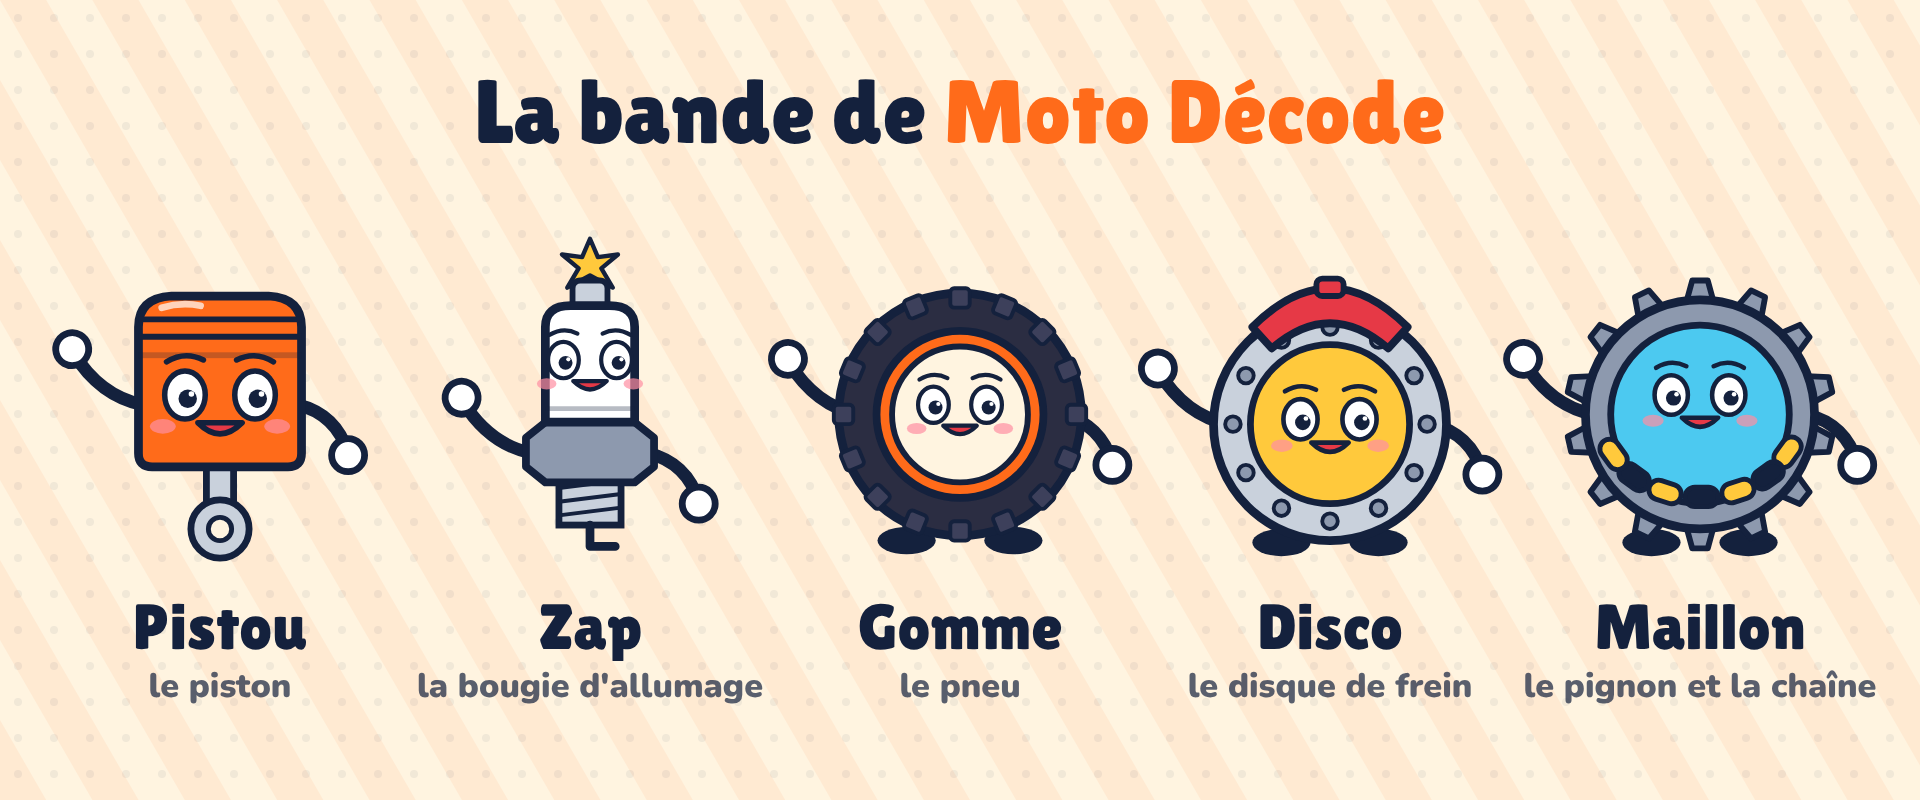
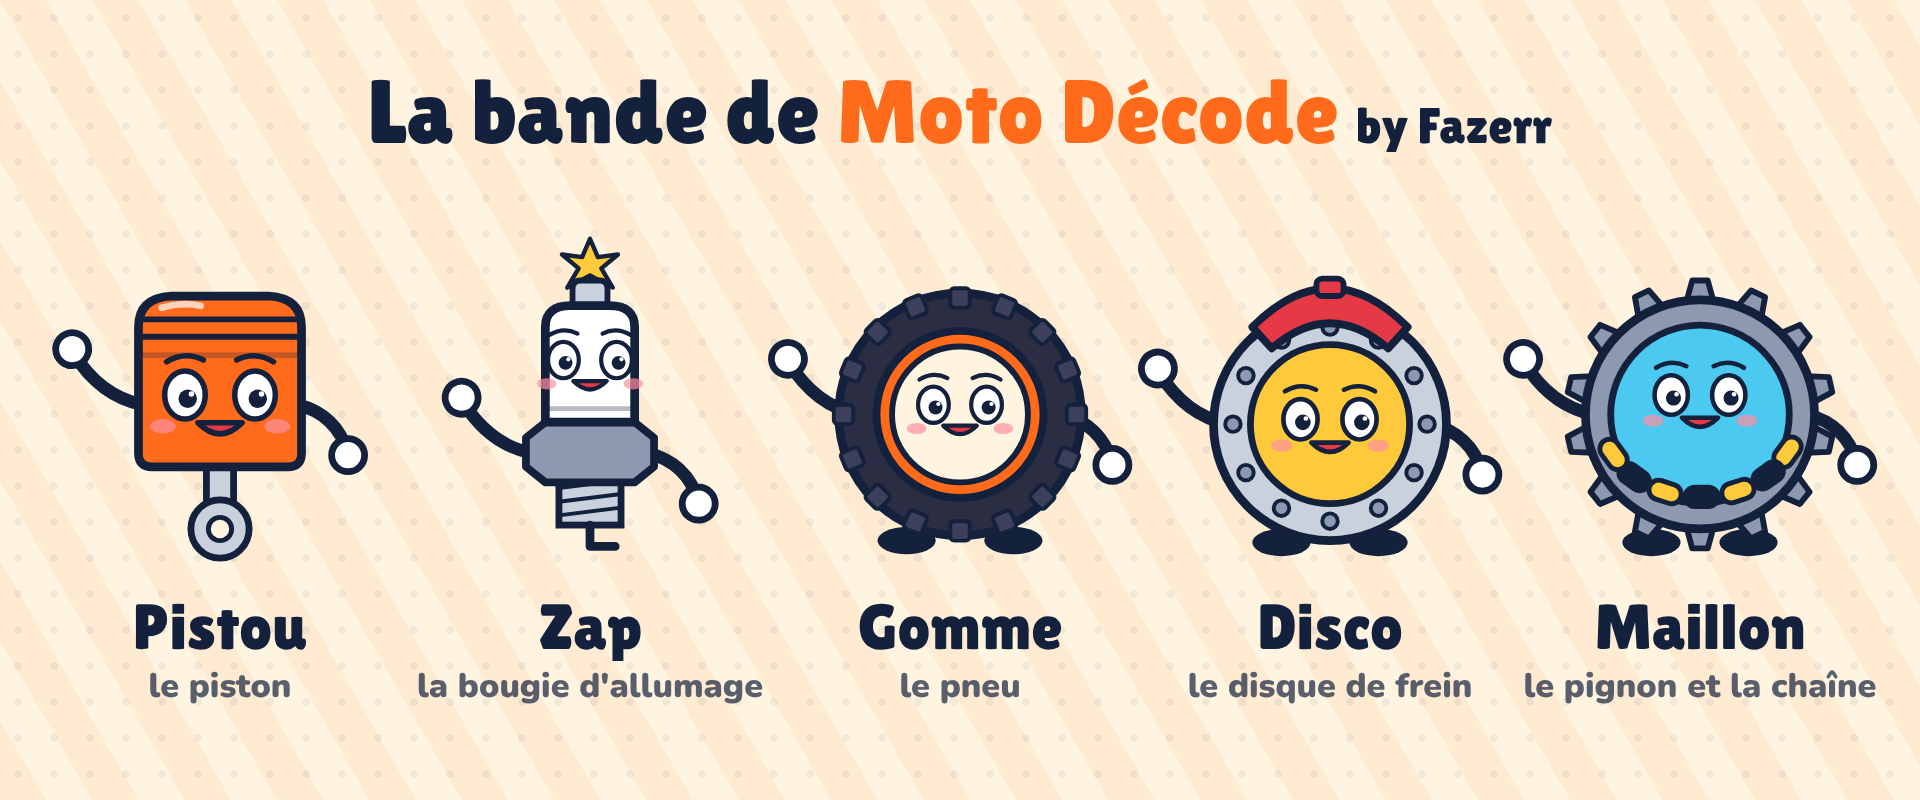
« by Fazerr » + bruitages originaux style jeu vidéo/TikTok
- signature by Fazerr à côté du logo (vidéo, outro, intro, planche mascottes)
- pipeline/make_sfx.py : 8 bruitages générés par code, libres de droits (public/sfx)
- placement : boom + pop dans l'accroche, whoosh par scène, ding/boing astuce, zap combustion, levelup validation, sons dans l'outro HyperFrames
- intro et outro HyperFrames rendus chacun comme index.html (évite le double audio signalé par le lint)

Claude-Session: https://claude.ai/code/session_01HD3WkXKEgjqLn4G5zB2U4c

Changed region(s): [[0.1875, 0.0938, 0.8125, 0.1875]]

diff --git a/hyperframes/templates/intro.html b/hyperframes/templates/intro.html
@@ -12,9 +12,12 @@
 </head>
 <body>
 <div id="root" data-composition-id="main" data-start="0" data-duration="{{DUR}}" data-width="1080" data-height="1920">
+  <audio id="sfx-boom" src="sfx/boom.wav" data-start="0" data-duration="0.9" data-volume="0.5"></audio>
+  <audio id="sfx-pop" src="sfx/pop.wav" data-start="0.5" data-duration="0.11" data-volume="0.4"></audio>
   <div id="scene" class="clip center" data-start="0" data-duration="{{DUR}}">
     <div id="logo"><svg viewBox="0 0 200 200" width="420" height="420"><g class="teeth"><rect x="86" y="6" width="28" height="34" rx="6" fill="#FF6B1A" stroke="#14213D" stroke-width="7" transform="rotate(0 100 100)"/><rect x="86" y="6" width="28" height="34" rx="6" fill="#FF6B1A" stroke="#14213D" stroke-width="7" transform="rotate(36 100 100)"/><rect x="86" y="6" width="28" height="34" rx="6" fill="#FF6B1A" stroke="#14213D" stroke-width="7" transform="rotate(72 100 100)"/><rect x="86" y="6" width="28" height="34" rx="6" fill="#FF6B1A" stroke="#14213D" stroke-width="7" transform="rotate(108 100 100)"/><rect x="86" y="6" width="28" height="34" rx="6" fill="#FF6B1A" stroke="#14213D" stroke-width="7" transform="rotate(144 100 100)"/><rect x="86" y="6" width="28" height="34" rx="6" fill="#FF6B1A" stroke="#14213D" stroke-width="7" transform="rotate(180 100 100)"/><rect x="86" y="6" width="28" height="34" rx="6" fill="#FF6B1A" stroke="#14213D" stroke-width="7" transform="rotate(216 100 100)"/><rect x="86" y="6" width="28" height="34" rx="6" fill="#FF6B1A" stroke="#14213D" stroke-width="7" transform="rotate(252 100 100)"/><rect x="86" y="6" width="28" height="34" rx="6" fill="#FF6B1A" stroke="#14213D" stroke-width="7" transform="rotate(288 100 100)"/><rect x="86" y="6" width="28" height="34" rx="6" fill="#FF6B1A" stroke="#14213D" stroke-width="7" transform="rotate(324 100 100)"/><circle cx="100" cy="100" r="70" fill="#FF6B1A" stroke="#14213D" stroke-width="8"/></g><circle cx="100" cy="100" r="52" fill="#FFF4E0" stroke="#14213D" stroke-width="7"/><rect x="72" y="62" width="56" height="44" rx="8" fill="#C9D1DC" stroke="#14213D" stroke-width="6"/><line x1="72" y1="76" x2="128" y2="76" stroke="#14213D" stroke-width="5"/><line x1="100" y1="106" x2="100" y2="138" stroke="#14213D" stroke-width="10" stroke-linecap="round"/><circle cx="100" cy="140" r="9" fill="#FFC93C" stroke="#14213D" stroke-width="5"/></svg></div>
     <div id="word" class="wordmark">MOTO <span class="o">DÉCODE</span></div>
+    <div id="by" class="by">by <span>{{AUTHOR}}</span></div>
     <div id="title">{{TITLE}}</div>
   </div>
   <div id="flash" class="clip" data-start="0" data-duration="{{DUR}}"></div>
@@ -26,6 +29,7 @@
   tl.fromTo("#logo", { scale: 0, rotation: -200 }, { scale: 1, rotation: 0, duration: 0.6, ease: "back.out(1.8)" }, 0.05);
   tl.fromTo("#logo .teeth", { rotation: 0, transformOrigin: "100px 100px" }, { rotation: 90, duration: {{DUR}}, ease: "none" }, 0);
   tl.fromTo("#word", { y: 300, opacity: 0 }, { y: 0, opacity: 1, duration: 0.45, ease: "back.out(2)" }, 0.3);
+  tl.fromTo("#by", { scale: 0 }, { scale: 1, rotation: -4, duration: 0.3, ease: "back.out(3)" }, 0.5);
   tl.fromTo("#title", { scale: 0.4, opacity: 0 }, { scale: 1, opacity: 1, duration: 0.35, ease: "back.out(2)" }, 0.6);
   tl.to("#scene", { scale: 1.15, opacity: 0, duration: 0.2, ease: "power2.in" }, {{DUR}} - 0.2);
   window.__timelines["main"] = tl;

diff --git a/hyperframes/templates/outro.html b/hyperframes/templates/outro.html
@@ -17,9 +17,14 @@
 <body>
 <div id="root" data-composition-id="main" data-start="0" data-duration="{{DUR}}" data-width="1080" data-height="1920">
   <audio id="vo" src="outro.wav" data-start="0.2" data-duration="{{VO_DUR}}"></audio>
+  <audio id="sfx-whoosh" src="sfx/whoosh.wav" data-start="0" data-duration="0.42" data-volume="0.35"></audio>
+  <audio id="sfx-boing" src="sfx/boing.wav" data-start="0.35" data-duration="0.5" data-volume="0.35"></audio>
+  <audio id="sfx-pop" src="sfx/pop.wav" data-start="0.55" data-duration="0.11" data-volume="0.45"></audio>
+  <audio id="sfx-levelup" src="sfx/levelup.wav" data-start="1.0" data-duration="0.53" data-volume="0.3"></audio>
   <div id="scene" class="clip center" data-start="0" data-duration="{{DUR}}">
     <img id="mascot" src="mascot.png" width="460" height="475" alt="" />
     <div id="word" class="wordmark">MOTO <span class="o">DÉCODE</span></div>
+    <div id="by" class="by">by <span>{{AUTHOR}}</span></div>
     <div id="sub">ABONNE-TOI !</div>
     <div id="next">Prochain épisode<b>{{NEXT}}</b></div>
   </div>
@@ -30,6 +35,7 @@
   tl.fromTo("#mascot", { y: -700 }, { y: 0, duration: 0.6, ease: "bounce.out" }, 0);
   tl.to("#mascot", { rotation: 6, y: -14, duration: 0.3, repeat: Math.floor(({{DUR}} - 0.7) / 0.3), yoyo: true, ease: "sine.inOut" }, 0.6);
   tl.fromTo("#word", { scale: 0 }, { scale: 1, duration: 0.4, ease: "back.out(2)" }, 0.2);
+  tl.fromTo("#by", { scale: 0, rotation: 20 }, { scale: 1, rotation: -4, duration: 0.35, ease: "back.out(3)" }, 0.4);
   tl.fromTo("#sub", { scale: 0, rotation: -15 }, { scale: 1, rotation: -3, duration: 0.5, ease: "back.out(2.5)" }, 0.5);
   tl.to("#sub", { scale: 1.08, duration: 0.35, repeat: Math.floor(({{DUR}} - 1) / 0.35), yoyo: true, ease: "sine.inOut" }, 1.0);
   tl.fromTo("#next", { y: 200, opacity: 0 }, { y: 0, opacity: 1, duration: 0.4, ease: "back.out(2)" }, 0.9);

diff --git a/src/components/Logo.tsx b/src/components/Logo.tsx
@@ -1,5 +1,5 @@
 import { BRAND } from "../brand";
-import { TITLE_FONT } from "../fonts";
+import { BODY_FONT, TITLE_FONT } from "../fonts";
 
 const C = BRAND.colors;
 
@@ -24,9 +24,31 @@ export const LogoMark: React.FC<{ size?: number; spin?: number }> = ({ size = 12
   );
 };
 
-export const Wordmark: React.FC<{ fontSize?: number }> = ({ fontSize = 64 }) => (
-  <div style={{ fontFamily: TITLE_FONT, fontSize, lineHeight: 0.95, color: C.ink, letterSpacing: 1 }}>
-    <span style={{ color: C.ink }}>MOTO </span>
-    <span style={{ color: C.orange, WebkitTextStroke: `${Math.max(2, fontSize / 22)}px ${C.ink}`, paintOrder: "stroke fill" }}>DÉCODE</span>
+export const Wordmark: React.FC<{ fontSize?: number; by?: boolean }> = ({ fontSize = 64, by = true }) => (
+  <div style={{ display: "flex", alignItems: "center", gap: fontSize * 0.25 }}>
+    <div style={{ fontFamily: TITLE_FONT, fontSize, lineHeight: 0.95, color: C.ink, letterSpacing: 1 }}>
+      <span style={{ color: C.ink }}>MOTO </span>
+      <span style={{ color: C.orange, WebkitTextStroke: `${Math.max(2, fontSize / 22)}px ${C.ink}`, paintOrder: "stroke fill" }}>DÉCODE</span>
+    </div>
+    {by && <ByTag fontSize={fontSize * 0.5} />}
+  </div>
+);
+
+// Signature « by Fazerr » (nom de la chaîne TikTok).
+export const ByTag: React.FC<{ fontSize?: number }> = ({ fontSize = 30 }) => (
+  <div
+    style={{
+      fontFamily: BODY_FONT,
+      fontWeight: 900,
+      fontSize,
+      color: C.white,
+      background: C.ink,
+      borderRadius: fontSize,
+      padding: `${fontSize * 0.1}px ${fontSize * 0.5}px ${fontSize * 0.18}px`,
+      transform: "rotate(-4deg)",
+      whiteSpace: "nowrap",
+    }}
+  >
+    by <span style={{ color: C.yellow }}>{BRAND.author}</span>
   </div>
 );

diff --git a/src/scenes/SceneView.tsx b/src/scenes/SceneView.tsx
@@ -6,6 +6,7 @@ import { Visual } from "../visuals";
 import { Captions } from "../components/Captions";
 import { PartMascot, type MascotId } from "../components/Mascots";
 import { HookView } from "./HookView";
+import { Sfx } from "../components/Sfx";
 
 const C = BRAND.colors;
 
@@ -18,9 +19,19 @@ export const SceneView: React.FC<{ scene: Scene; speechFrames: number; mascot?: 
   const isTip = scene.type === "tip";
   const isHook = scene.type === "hook";
   if (isHook) return <HookView scene={scene} speechFrames={speechFrames} />;
+  const v = (scene.visual ?? {}) as Record<string, unknown>;
+  // Combustion : un « zap » à chaque étincelle de la bougie (même rythme que l'animation Engine4T).
+  const zapEvery = v.kind === "engine4t" && v.stroke === "combustion" ? Math.ceil(220 / ((v.speed as number) ?? 2.6)) : 0;
+  const zaps = zapEvery ? Array.from({ length: Math.ceil(speechFrames / zapEvery) }, (_, i) => i * zapEvery) : [];
 
   return (
     <AbsoluteFill>
+      {/* bruitages */}
+      <Sfx name="whoosh" at={0} />
+      {isTip && <Sfx name="ding" at={6} />}
+      {isTip && <Sfx name="boing" at={10} volume={0.25} />}
+      {zaps.map((z) => <Sfx key={z} name="zap" at={z} />)}
+      {v.kind === "oilcheck" && <Sfx name="levelup" at={60} />}
       {scene.heading && (
         <div style={{ position: "absolute", top: 330, left: 60, right: 60, display: "flex", justifyContent: "center", transform: `translateX(${headX}px)` }}>
           <div

diff --git a/src/scenes/HookView.tsx b/src/scenes/HookView.tsx
@@ -4,6 +4,7 @@ import { BODY_FONT, TITLE_FONT } from "../fonts";
 import type { Scene } from "../types";
 import { Visual } from "../visuals";
 import { Captions } from "../components/Captions";
+import { Sfx } from "../components/Sfx";
 
 const C = BRAND.colors;
 
@@ -31,6 +32,9 @@ export const HookView: React.FC<{ scene: Scene; speechFrames: number }> = ({ sce
 
   return (
     <AbsoluteFill style={{ transform: `translate(${shake}px, ${shake * 0.6}px)` }}>
+      <Sfx name="boom" at={0} />
+      {words.map((w, i) => (w.hot && i > 0 ? <Sfx key={`p${i}`} name="pop" at={i * 2} /> : null))}
+      {scene.kicker && <Sfx name="whoosh" at={words.length * 2 + 2} volume={0.25} />}
       {/* phrase choc */}
       <div style={{ position: "absolute", top: 320, left: 50, right: 50, display: "flex", flexWrap: "wrap", justifyContent: "center", gap: "4px 22px" }}>
         {words.map(({ w, hot }, i) => {

diff --git a/src/components/Sfx.tsx b/src/components/Sfx.tsx
@@ -1,0 +1,22 @@
+import { Audio, Sequence, staticFile } from "remotion";
+
+export type SfxName = "whoosh" | "boom" | "pop" | "ding" | "zap" | "levelup" | "boing" | "tick";
+
+// Volume de chaque bruitage par rapport à la voix (normalisée à -14 LUFS).
+const VOLUME: Record<SfxName, number> = {
+  whoosh: 0.35,
+  boom: 0.4,
+  pop: 0.4,
+  ding: 0.3,
+  zap: 0.35,
+  levelup: 0.3,
+  boing: 0.35,
+  tick: 0.25,
+};
+
+/** Joue un bruitage de public/sfx/ à une image donnée de la scène. */
+export const Sfx: React.FC<{ name: SfxName; at?: number; volume?: number }> = ({ name, at = 0, volume }) => (
+  <Sequence from={Math.max(0, Math.round(at))} durationInFrames={45} layout="none">
+    <Audio src={staticFile(`sfx/${name}.wav`)} volume={volume ?? VOLUME[name]} />
+  </Sequence>
+);

diff --git a/hyperframes/templates/_shared.css b/hyperframes/templates/_shared.css
@@ -9,5 +9,8 @@ html, body { width:1080px; height:1920px; overflow:hidden; background:var(--crea
 .center { display:flex; flex-direction:column; align-items:center; justify-content:center; }
 .wordmark { font-family:"Lilita One"; font-size:150px; line-height:.9; color:var(--ink); text-align:center; }
 .wordmark .o { color:var(--orange); -webkit-text-stroke:8px var(--ink); paint-order:stroke fill; }
+.by { font-family:"Nunito"; font-weight:900; font-size:52px; color:#fff; background:var(--ink); border-radius:50px;
+  padding:4px 30px 10px; margin-top:18px; transform:rotate(-4deg); }
+.by span { color:var(--yellow); }
 .chip { font-family:"Nunito"; font-weight:900; font-size:52px; color:#fff; background:var(--ink);
   border-radius:40px; padding:14px 40px; margin-top:50px; }

diff --git a/src/MascotSheet.tsx b/src/MascotSheet.tsx
@@ -11,7 +11,7 @@ export const MascotSheet: React.FC = () => {
     <AbsoluteFill>
       <Background />
       <div style={{ position: "absolute", top: 60, width: "100%", textAlign: "center", fontFamily: TITLE_FONT, fontSize: 90, color: BRAND.colors.ink }}>
-        La bande de <span style={{ color: BRAND.colors.orange }}>Moto Décode</span>
+        La bande de <span style={{ color: BRAND.colors.orange }}>Moto Décode</span> <span style={{ fontSize: 50, color: BRAND.colors.ink }}>by {BRAND.author}</span>
       </div>
       <div style={{ position: "absolute", top: 220, left: 40, right: 40, display: "flex", justifyContent: "space-between" }}>
         {ids.map((id) => (

diff --git a/src/brand.ts b/src/brand.ts
@@ -1,6 +1,7 @@
 // Charte graphique "Moto Décode". Toutes les couleurs passent par ici.
 export const BRAND = {
   name: "MOTO DÉCODE",
+  author: "Fazerr", // nom de la chaîne TikTok, affiché « by Fazerr »
   tagline: "Ta moto, expliquée en 1 minute",
   colors: {
     ink: "#14213D", // contours cartoon + texte

diff --git a/pipeline/make_sfx.py b/pipeline/make_sfx.py
@@ -1,0 +1,133 @@
+"""Fabrique les bruitages de Moto Décode (originaux, générés par code : libres de droits).
+
+Usage : python pipeline/make_sfx.py   -> public/sfx/*.wav
+Style jeu vidéo / TikTok : whoosh, boom, pop, ding, zap, levelup, boing, tick.
+Tu peux remplacer n'importe quel fichier par ton propre son (même nom, en .wav) à condition d'en avoir les droits.
+"""
+import wave
+from pathlib import Path
+
+import numpy as np
+
+SR = 44100
+OUT = Path(__file__).resolve().parent.parent / "public" / "sfx"
+rng = np.random.default_rng(42)  # déterministe : mêmes sons à chaque fois
+
+
+def t(d):
+    return np.arange(int(SR * d)) / SR
+
+
+def env(n, attack=0.005, release=None, curve=4.0):
+    """Enveloppe attaque rapide + décroissance exponentielle."""
+    x = np.linspace(0, 1, n)
+    a = np.clip(x / max(attack * SR / n, 1e-6), 0, 1)
+    return a * np.exp(-curve * x)
+
+
+def lowpass(x, cutoff):
+    """Passe-bas 1 pôle, cutoff fixe ou tableau (balayage)."""
+    cutoff = np.broadcast_to(np.asarray(cutoff, dtype=float), x.shape)
+    alpha = 1 - np.exp(-2 * np.pi * cutoff / SR)
+    y = np.empty_like(x)
+    acc = 0.0
+    for i in range(len(x)):
+        acc += alpha[i] * (x[i] - acc)
+        y[i] = acc
+    return y
+
+
+def sweep(f0, f1, d, shape="sine", curve="exp"):
+    tt = t(d)
+    if curve == "exp":
+        f = f0 * (f1 / f0) ** (tt / d)
+    else:
+        f = f0 + (f1 - f0) * tt / d
+    ph = 2 * np.pi * np.cumsum(f) / SR
+    if shape == "square":
+        return np.sign(np.sin(ph))
+    if shape == "tri":
+        return 2 / np.pi * np.arcsin(np.sin(ph))
+    return np.sin(ph)
+
+
+def save(name, x, peak_db=-3.0):
+    x = x / (np.max(np.abs(x)) + 1e-9) * 10 ** (peak_db / 20)
+    fade = min(len(x), int(0.01 * SR))
+    x[-fade:] *= np.linspace(1, 0, fade)
+    data = (np.clip(x, -1, 1) * 32767).astype(np.int16)
+    stereo = np.repeat(data[:, None], 2, axis=1)
+    OUT.mkdir(parents=True, exist_ok=True)
+    with wave.open(str(OUT / f"{name}.wav"), "wb") as w:
+        w.setnchannels(2)
+        w.setsampwidth(2)
+        w.setframerate(SR)
+        w.writeframes(stereo.tobytes())
+    print(f"  {name}.wav ({len(x) / SR:.2f} s)")
+
+
+def whoosh():
+    d = 0.42
+    n = len(t(d))
+    noise = rng.standard_normal(n)
+    x = np.linspace(0, 1, n)
+    cutoff = 300 + 5000 * np.sin(np.pi * x) ** 2
+    y = lowpass(noise, cutoff) - lowpass(noise, cutoff * 0.25)
+    return y * np.sin(np.pi * x) ** 1.5
+
+
+def boom():
+    d = 0.9
+    sub = sweep(95, 38, d) * env(len(t(d)), curve=5)
+    click = lowpass(rng.standard_normal(len(t(d))), 2500) * env(len(t(d)), curve=40)
+    y = np.tanh(2.5 * (sub + 0.6 * click))  # saturation = boom "gras"
+    return y
+
+
+def pop():
+    d = 0.11
+    return sweep(1400, 380, d) * env(len(t(d)), attack=0.001, curve=7)
+
+
+def ding():
+    d = 1.1
+    tt = t(d)
+    y = sum(a * np.sin(2 * np.pi * f * tt) * np.exp(-k * tt) for f, a, k in [(1568, 1.0, 3.5), (3136, 0.45, 6), (4704, 0.2, 9), (2350, 0.25, 5)])
+    return y * np.clip(tt / 0.003, 0, 1)
+
+
+def zap():
+    d = 0.32
+    n = len(t(d))
+    crackle = rng.standard_normal(n) * (rng.random(n) > 0.85)
+    buzz = sweep(2200, 300, d, shape="square") * 0.5
+    return (lowpass(crackle, 6000) * 1.5 + buzz) * env(n, attack=0.001, curve=6)
+
+
+def levelup():
+    # arpège 8 bits montant (do-mi-sol-do), son « niveau réussi »
+    notes = [1047, 1319, 1568, 2093]
+    parts = []
+    for i, f in enumerate(notes):
+        d = 0.07 if i < len(notes) - 1 else 0.32
+        parts.append(np.sign(np.sin(2 * np.pi * f * t(d))) * env(len(t(d)), attack=0.001, curve=2 if i == 3 else 1) * 0.6)
+    return np.concatenate(parts)
+
+
+def boing():
+    d = 0.5
+    tt = t(d)
+    f = 180 + 260 * np.exp(-6 * tt) * (1 + 0.35 * np.sin(2 * np.pi * 14 * tt))
+    ph = 2 * np.pi * np.cumsum(f) / SR
+    return np.sin(ph) * env(len(tt), attack=0.002, curve=4)
+
+
+def tick():
+    d = 0.05
+    return sweep(3000, 1800, d, shape="tri") * env(len(t(d)), attack=0.0005, curve=12)
+
+
+if __name__ == "__main__":
+    print("Génération des bruitages…")
+    for name, fn in [("whoosh", whoosh), ("boom", boom), ("pop", pop), ("ding", ding), ("zap", zap), ("levelup", levelup), ("boing", boing), ("tick", tick)]:
+        save(name, fn())

diff --git a/brand/BRAND.md b/brand/BRAND.md
@@ -1,6 +1,6 @@
 # Charte Moto Décode (proposition v1)
 
-- **Nom** : MOTO DÉCODE · slogan : « Ta moto, expliquée en 1 minute »
+- **Nom** : MOTO DÉCODE **by Fazerr** (nom de la chaîne TikTok) · slogan : « Ta moto, expliquée en 1 minute »
 - **Logo** : engrenage orange avec un piston au centre (`logo-mark.svg`) + mot-symbole « MOTO » bleu nuit / « DÉCODE » orange contouré.
 - **Mascottes** (voir `mascottes.png`) : une bande de 5 pièces de moto. Chaque épisode prend celle qui colle au sujet (`"mascot"` dans `script.json`).
   Elle salue dans l'accroche, tient une clé dans l'astuce et revient dans l'outro.
@@ -14,3 +14,6 @@
 - **Couleurs** : orange `#FF6B1A` · bleu nuit `#14213D` (contours, texte) · jaune `#FFC93C` (astuces) · crème `#FFF4E0` (fond) · bleu ciel `#4CC9F0` (air) · rouge `#E63946` (combustion, alerte).
 - **Polices** : Lilita One (titres), Nunito Black (sous-titres). Licence OFL.
 - **Style** : cartoon plat, contours épais bleu nuit de 8 px, coins arrondis, ombres portées décalées.
+- **Bruitages** : sons originaux générés par `pipeline/make_sfx.py` (libres de droits) dans `public/sfx/` : whoosh (changement de scène),
+  boom (accroche), pop (mots clés, bouton abonne-toi), ding + boing (astuce), zap (étincelle), levelup (validation), tick.
+  Pour utiliser un son à toi, remplace le fichier du même nom (en .wav) ; vérifie que tu as le droit de l'utiliser.

diff --git a/CLAUDE.md b/CLAUDE.md
@@ -49,4 +49,8 @@ Livre `out/<slug>.mp4`. Pas de publication automatique.
   L'outro affiche `mascot.png`, la mascotte de l'épisode rendue par la composition Remotion `MascotStill`.
 - Planche des mascottes : `npx remotion still src/index.ts MascotSheet brand/mascottes.png`.
 - Les couleurs et polices ne changent que dans `src/brand.ts` + `hyperframes/templates/_shared.css` (garde-les synchronisés).
+- Bruitages : composant `<Sfx name="…" at={image} />` (`src/components/Sfx.tsx`), sons dans `public/sfx/` (régénérer : `python pipeline/make_sfx.py`).
+  Déjà placés automatiquement : boom + pop dans l'accroche, whoosh à chaque scène, ding dans l'astuce, zap sur la combustion, levelup sur `oilcheck`.
+  Pour un nouveau visuel, ajoute ses bruitages dans `SceneView.tsx` sur ses moments forts, sans en mettre partout.
+- Signature : « by Fazerr » (`BRAND.author`) à côté du logo.
 - Zone sûre TikTok : rien d'important sous y=1600 ni dans les 150 px de droite.
